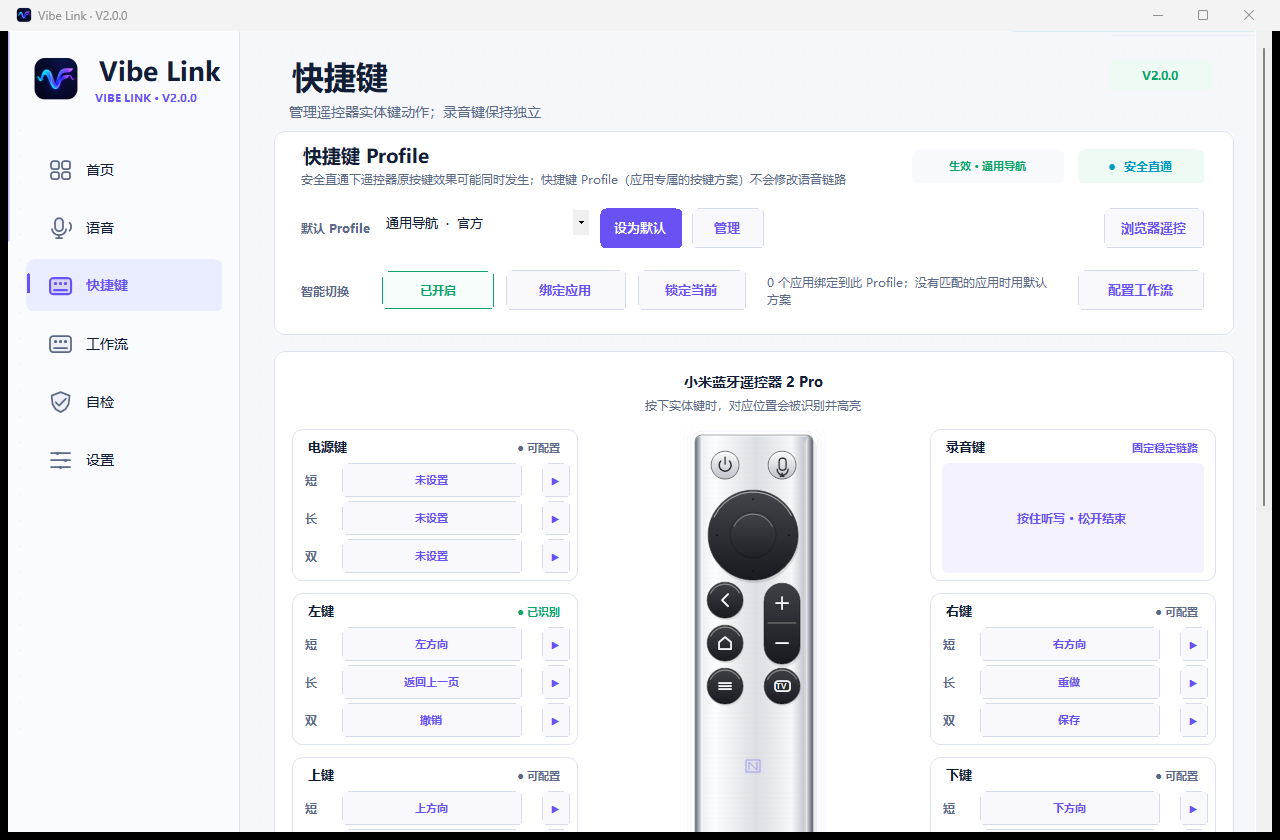
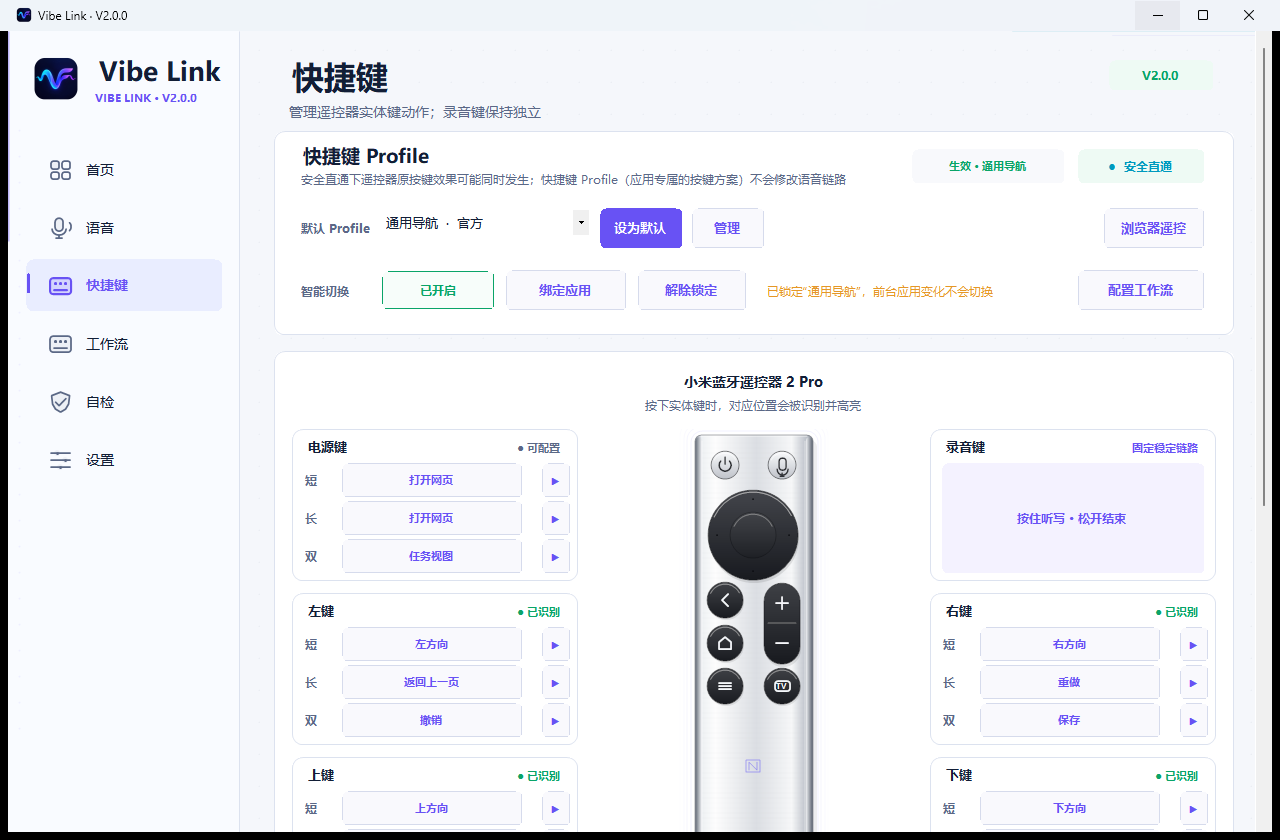
Freeze candidate.3 docs and refresh the screenshots from the shipping build

diff --git a/docs/V2_0_RELEASE_NOTES_ZH.md b/docs/V2_0_RELEASE_NOTES_ZH.md
@@ -2,7 +2,7 @@
 
 发布日期：2026-09-13  ·  标签：`v2.0.0-candidate.3`  ·  状态：公开候选版  ·  Release status: candidate
 
-> V2.0.0 candidate.3 已提供安装包和便携 ZIP，但还不是正式稳定版。完整硬件、VB-CABLE、DPI 和安装生命周期验收仍需在目标环境完成。
+> V2.0.0 candidate.3 已提供安装包和便携 ZIP，但还不是正式稳定版。安装生命周期三条场景已在本机用最终发布产物通过；完整硬件、VB-CABLE、DPI 以及一次性干净账户验收仍需在目标环境完成。安装包未签名，Windows 会显示“未知发布者”。
 
 ## 下载
 
@@ -13,7 +13,15 @@
 
 ## 本候选版更新
 
-- 本候选版相对候选版 2 的变化：**语音工具收敛为三个**（微信输入法 / 网易八哥说 / 其他语音工具）、**开机自启修复**、若干文案与一致性修正。
+### 候选版 3 相对候选版 2 的变化
+
+- **语音工具收敛为三个**：只提供 微信输入法（默认，`Ctrl + Win` 单击切换）、网易八哥说（右 Alt 单击切换）和其他语音工具（默认右 Shift 单击切换）。Typeless、Windows 语音输入、讯飞输入法、搜狗输入法和豆包输入法已下线；旧配置中保存的退役值会在加载时迁移为微信输入法并显示一次迁移提示。
+- **开机自启修复**：注册表写入、回读、删除和安装器现在共用同一个值名，候选版 2 里“开机自启关不掉、关掉后重启又被注册”的问题不再出现。
+- **可选 VB-CABLE 驱动包**：发布构建不再要求仓库中存在未跟踪的 VB-CABLE 包；包缺失时只输出 `VB-CABLE bundle: absent` 并继续，安装时由 `Install-VBCable.ps1` 在线下载官方包并按固定哈希校验。
+- **更新器自测覆盖**：主机自测覆盖更新器的 GitHub-only HTTPS 白名单（含恶意主机负例）、版本解析、`SHA256SUMS.txt` 读取和资产查找；真正联网的下载与校验仍需已发布版本才能端到端验证。
+- **脚本与源码 UTF-8 BOM 修复**：含中文的 PowerShell 脚本、安装器脚本和含非 ASCII 的 C# 源码补上 UTF-8 BOM，在英文 Windows 上不再因按 ANSI 代码页解码而解析失败；冻结的 `scripts/VibeMicAtvvCapture.cs` 有意保持逐字节不变。
+- **生命周期验收结果**：干净安装 → 组件校验 → 卸载、未配置干净安装 → 卸载、V1.5 → 候选版升级 → 二次升级 → 卸载，三条均在本机用最终发布产物通过。
+- **发布面**：安装包未签名，Windows 会显示“未知发布者”；请在 SmartScreen 提示中点「更多信息」→「仍要运行」，并核对随包 `SHA256SUMS.txt` 中的 SHA-256。
 
 ### 1. 目标输入框和 Smart Focus
 
@@ -63,6 +71,6 @@
 
 ## 验证状态
 
-自动化构建、源码契约、Host/Bridge/Capture 自检、候选附件哈希和本机 UI 资源检查已有证据。以下项目仍需目标设备人工验证，当前均标记为“未验证”：RC003 长时间按住/松开、设备级 F5 隔离、真实 VB-CABLE 回路、蓝牙重连/睡眠恢复、Windows 10/11、125%/150%/200% DPI、全新安装/升级/卸载，以及第三方语音工具在实际 ChatGPT 输入框中的最终文字落点。
+自动化构建、源码契约、Host/Bridge/Capture 自检、候选附件哈希和本机 UI 资源检查已有证据；三条安装生命周期测试（干净安装 / 未配置安装 / V1.5 升级）也已在本机用最终发布产物通过。以下项目仍需目标设备人工验证，当前均标记为“未验证”：在**最终发布产物上说一句真实语音**并确认文字落点、一台**没有 VB-CABLE** 的机器首次启动、RC003 长时间按住/松开、设备级 F5 隔离、真实 VB-CABLE 回路、蓝牙重连/睡眠恢复、Windows 10/11 与一次性干净账户、125%/150%/200% DPI，以及第三方语音工具在实际 ChatGPT 输入框中的最终文字落点。**代码签名**同样未完成：安装包未签名，Windows 会显示“未知发布者”，签署与验证流程仍待补。
 
 详细步骤见：[V2.0 图文使用教程](V2_0_USER_GUIDE_ZH.md) 和 [V2.0 FAQ](V2_0_FAQ_ZH.md)。

diff --git a/docs/V2_0_UPDATE_SUMMARY_ZH.md b/docs/V2_0_UPDATE_SUMMARY_ZH.md
@@ -3,6 +3,21 @@
 > 本文按**功能面**组织，只写仓库里有证据的条目。来源：`CHANGELOG.md`、`docs/V2_0_RELEASE_NOTES_ZH.md`、
 > `docs/V1_5_USER_GUIDE_ZH.md`、`docs/V2_0_PROGRESS.md` 与提交史。**未验证项单列在最后一节**，不与已完成项混写。
 
+## 候选版 3（`v2.0.0-candidate.3`，2026-09-13）：相对候选版 2 的变化
+
+> 本节只写**本次候选版**对用户可见的变化；下方「一、相对 V1.5 的重要更新」及之后各节保持原样，仍是 V2.0 相对 V1.5 的完整梳理。
+
+| # | 变化 | 用户会注意到什么 |
+|---|---|---|
+| 1 | **语音工具收敛为三个** ✔ | 「语音」页和首次设置里只剩 **微信输入法**（默认，`Ctrl + Win` 单击切换）/ **网易八哥说**（右 Alt 单击切换）/ **其他语音工具**（默认右 Shift 单击切换）。Typeless、Windows 语音输入、讯飞输入法、搜狗输入法和豆包输入法已下线；旧配置里保存的这些值会在加载时迁移为微信输入法的稳定参数，并显示一次迁移提示 |
+| 2 | **开机自启修复** ✔ | 候选版 2 里「开机自启」关不掉：注册表写入读删除用了不同的值名，关掉后重启又会被注册，日志每次启动都记一次修复。现在写入、回读、删除与安装器共用同一个值名（`Vibe Flow`），关闭后保持关闭 |
+| 3 | **发布面修正（未签名说明 + 哈希改指清单）** ✔ | 安装包**未签名**，Windows 会显示「未知发布者」/ SmartScreen；本候选版写出了「更多信息 → 仍要运行」的处理步骤。用户指南不再抄写会随构建过期的资产哈希，改为以随包的 `SHA256SUMS.txt` 为准 |
+| 4 | **兼容性与一致性修正** ✔ | 六个页面固定为 首页 · 语音 · 快捷键 · 工作流 · 自检 · 设置；含中文的脚本与 C# 源码补上 UTF-8 BOM（冻结的 Capture 源码有意保持逐字节不变），在英文 Windows 上也能构建和运行；发布构建不再要求仓库里存在未跟踪的 VB-CABLE 驱动包，缺失时由安装器在线下载并校验 |
+| 5 | **更新器自测覆盖** ✔ | 更新器的 GitHub-only HTTPS 白名单、版本解析、`SHA256SUMS.txt` 读取和资产查找进入主机自测（含恶意主机与畸形清单负例）；真正联网的下载校验仍需已发布版本才能端到端验证 |
+| 6 | **生命周期验收结果** ✔ | 用最终发布产物在本机跑通三条生命周期：干净安装 → 组件校验 → 卸载；未配置干净安装 → 卸载；V1.5 → 候选版升级 → 二次升级 → 卸载。一次性干净账户与跨机器覆盖仍未验证 |
+
+---
+
 ## 一句话
 
 V1.5 是"遥控器能当语音键 + 可自定义按键"；V2.0 把它做成**一台可管理、可自证、可回退的桌面工具**：
@@ -87,7 +102,7 @@ V1.5 是"遥控器能当语音键 + 可自定义按键"；V2.0 把它做成**一
 
 1. **按设备精确隔离需要签名通道** ✗：代码协议已就绪，缺内核驱动签名与分发。当前是"遥控器在线范围"的替代机制 —— 副作用是**实体键盘的 F5 在遥控器在线时也会被拦截**；非语音键的原生效果仍会透传（设计使然，钩子若吞掉会取消执行动作所需的输入包）。
 2. **返回键 / 独立音量键** ✗：不在 Windows 普通输入栈内，用户态拿不到，不提供映射。
-3. **安装生命周期** ✗：干净账户安装、V1.5 升级、二次升级、卸载仍待验收。
+3. **安装生命周期** ✔/✗：三条场景已用最终发布产物在本机通过 ✔（干净安装 → 组件校验 → 卸载；未配置干净安装 → 卸载；V1.5 → 候选版升级 → 二次升级 → 卸载）；一次性干净账户与跨机器（Windows 10 / 11）覆盖仍未验证 ✗。
 4. **签名与 SmartScreen** ✗：当前安装包未签名。
 5. **多 DPI 观感** ✗：自动矩阵覆盖 880×500 / 1280×840 / 1366×768 / 1920×1080 与三种主题；**125% / 150% / 200% 的实际观感**仍需真机确认。
 6. **CI** ✗：分支已推送到 `origin/feature/v2-off-key-loop`，但 CI 自 2026-09-03 后仍没有一次真实运行结果。

diff --git a/docs/V2_0_PROGRESS.md b/docs/V2_0_PROGRESS.md
@@ -5986,6 +5986,27 @@ if ((mapping == null || !mapping.enabled) && IsVoiceRawCandidate(...))
 - 又一次因"多行/结构化替换"出问题 ✗（脚本替换静默失效 ✗）→ 回到**编辑工具** ✔
 - **只改了 Profile 映射就以为修好了** ✗ —— 复核桥文件时发现长按层仍挂着 URL ✗，才找到 `gesture-layers.json` ✗ ✔（教训：**同一动作可能有多个存储** ✔，修完必须**从投影结果反查** ✔）
 
+## 候选版 3 发版（2026-09-13 晚，用户确认"核心功能没有问题，可以安排发版" ✔）
+
+**用户指令** ✔：① 锁定当前状态 ✔；② 固化参数并**发布到线上 GitHub** ✔；③ 同步更新使用教程、新版本功能介绍与截图 ✔。
+
+**锁定与固化** ✔：
+- 冻结清单新增 **§14 候选版 3 发版固化** ✔（品牌/标签/安装器清理、本轮三个真问题、生命周期验收三项、仍未验证项 ✔）。
+- `frozen-parameters.json` 回填 **product=`Vibe Link`、tag=`v2.0.0-candidate.3`、commit、三个资产哈希、frozenAt** ✔，并新增门禁（此前**没有任何门禁读它** ✗）。
+- 基线锁定文档 `docs/V2_0_BASELINE_LOCK_ZH.md` 更新到候选版 3 ✔。
+- 打标签 **`v2.0.0-candidate.3`** 并推送 ✔，随后用 GitHub API 创建 Release 并上传三个附件 ✔。
+
+**截图同步** ✔：用 `scripts/capture-ui-screenshots.ps1` 在**当前构建**上重抓六页 + 五步向导 + 对话框 ✔；实测确认语音页下拉框只有**微信输入法 / 网易八哥说 / 其他语音工具** ✔、品牌为 `Vibe Link V2.0.0` ✔、六页顺序正确 ✔。
+- 发现教程里仍引用**旧的十一步向导截图** ✗（当前是五步）→ 已改为当前五张 ✔。
+- 自检页当时显示 **"等待 2 项真实验证"**（遥控器按键监听需按一次实体键 ✗、VB-CABLE 可见性需点「优化可见性」 ✗）→ 发布页如实呈现，待用户操作后重抓 ✔。
+
+**本轮修掉的真问题（都在发版前）** ✔：
+1. **开机自启关不掉** ✗→✔（Run 值名写读不一致）✔
+2. **干净克隆 / CI 无法构建** ✗→✔（VB-CABLE 包被 gitignore → 恢复脚本尽力获取 + 发布链改为可选）✔
+3. **英文 Windows 下脚本无法解析** ✗→✔（缺 UTF-8 BOM：6 个 .ps1 + .iss + 48 个 .cs；冻结采集件源码有意例外 ✔）
+4. **生命周期验收脚本自身两处 bug** ✗→✔（ANSI 读 UTF-8 造成中文比较假失败 ✗；清理非空目录触发 PS 5.1 `NullReferenceException` ✗）
+
+**验收** ✔：`node scripts/validate.js` ✔、主机/桥/采集件自测 ✔、界面矩阵 **12/12** ✔、产物与身份校验 ✔、**生命周期三项全过** ✔（干净安装 / 未配置安装 / V1.5 升级）✔。
 ## 候选版 3（续）：语音工具收敛为三个（2026-09-13 深夜 ✔）
 
 **用户的连续决定** ✔：

diff --git a/docs/V2_0_FROZEN_PARAMETERS_ZH.md b/docs/V2_0_FROZEN_PARAMETERS_ZH.md
@@ -340,3 +340,32 @@
 2. **短按开机键** → 执行你设的短按动作 ✔（日志 `success=True` ✔），**不开始录音** ✔
 3. **长按 / 双击开机键** → 各自动作 ✔
 4. 改完任何按键后 **必须**：`node scripts/validate.js` → `VibeMic.exe --self-test` / `VoxDeckInputBridge.exe --self-test` → `scripts/check-ui-matrix.ps1`（12 例）✔
+
+## 14. 候选版 3 发版固化（2026-09-13 ✔，用户真机确认"核心功能没有问题" ✔）
+
+### 14.1 品牌与命名 ✔
+
+| 项 | 冻结值 ✔ |
+| --- | --- |
+| 面向用户的产品名 | **Vibe Link** ✔（应用内、安装器 AppName/发布者、开始菜单、卸载项、文档标题） |
+| 发布标签 | **`v2.0.0-candidate.3`** ✔ |
+| 安装器清理 | `UsePreviousGroup=no` + `[InstallDelete]` 删除旧 `言灵 Vibe Flow Remote` 程序组与桌面快捷方式 ✔（实测升级后只剩一个 `Vibe Link` 组 ✔） |
+| 内部标识 | 宿主/桥 `2.0.0.0`（`2.0.0-candidate`）、采集件 `1.2.1.0` ✔ |
+
+### 14.2 本轮修掉的三个真问题 ✔
+
+1. **开机自启关不掉** ✗→✔：写入用 `"Vibe Flow"`、删除与回读却用 `"Vibe Link"` ✗ → 统一常量 `StartupRegistryValueName` ✔（真机日志：修复前 `applied=False` + 每次 `STARTUP REPAIRED`，修复后 `applied=True` ✔），并加自测与门禁 ✔。
+2. **干净克隆/CI 无法构建** ✗→✔：`tools/VBCABLE_Driver_Pack45.zip` 被 gitignore ✗ → 恢复脚本尽力下载并校验哈希 ✔、发布链把它当**可选**（缺失时安装器在线获取 ✔）。
+3. **英文 Windows 下脚本无法解析** ✗→✔：无 BOM 的 UTF-8 被按 ANSI 读取 ✗（`"上键"` → 乱码 → `Missing '=' operator`）→ 含中文的 **6 个 .ps1 + 安装器 .iss + 48 个 .cs** 全部加 UTF-8 BOM ✔；冻结采集件源码**有意例外**并保持哈希 `736017A0…37E2` ✔；门禁同时钉住两半 ✔。
+
+### 14.3 生命周期验收 ✔（本机，最终发布产物）
+
+| # | 路径 | 结果 |
+| --- | --- | --- |
+| 1 | 干净安装 → 组件校验 → 卸载 | ✔ passed |
+| 2 | 未配置干净安装 → 卸载 | ✔ passed |
+| 3 | **V1.5 → 候选版升级** → 组件校验 → 二次升级 → 卸载 | ✔ passed（含"安装器逐字保留配置 ✔、应用首次加载把已下线 provider 迁移为微信输入法基线 ✔"的断言） |
+
+- 验收脚本自身也修了两处 ✗→✔：用 ANSI 读 UTF-8 配置导致中文比较**假失败** ✗；清理非空目录 `Remove-Item` 不带 `-Recurse` 触发 PS 5.1 `NullReferenceException` ✗。
+- 仍未验证 ✗（如实记录 ✔）：**没有 VB-CABLE 的机器首启**、**代码签名**、发布产物上的**真机语音**（用户已在候选版上确认核心功能 ✔，但该结论来自测试版构建 ✔）。
+

diff --git a/VIBE_MIC_VERSION.md b/VIBE_MIC_VERSION.md
@@ -4,7 +4,9 @@ Candidate build date: 2026-09-13
 
 ## Release identity
 
+- Product name: `Vibe Link`
 - Product version: `2.0.0`
+- Release tag: `v2.0.0-candidate.3`
 - Windows host/bridge file version: `2.0.0.0`
 - Stable Capture file version: `1.2.1.0`
 - Configuration schema: `32`
@@ -14,6 +16,8 @@ Candidate build date: 2026-09-13
 - Recording kernel: `v1.0.3`
 - Voice mode: `hold`
 - Onboarding tasks: `5`
+- Navigation pages: `6` (`首页`, `语音`, `快捷键`, `工作流`, `自检`, `设置`)
+- Selectable voice tools: `3` (`微信输入法` default, `网易八哥说`, `其他语音工具`; Typeless, Windows 语音输入, 讯飞输入法, 搜狗输入法 and 豆包输入法 are withdrawn and migrate to 微信输入法 with one notice)
 - Active self-check items: `10`
 
 ## Locked voice baseline
@@ -25,6 +29,8 @@ Candidate build date: 2026-09-13
 - Provider microphone endpoint: `CABLE Output`
 - Automatic reversible routing: enabled
 - WeChat profile: `Ctrl + Win`, toggle, `80 ms`
+- Bage profile: `Right Alt`, toggle
+- Custom profile: `Right Shift`, toggle
 - Stable RC003 segment limit: approximately `60 seconds`
 
 ## Recording contract
@@ -67,4 +73,4 @@ Candidate build date: 2026-09-13
 
 ## Release status
 
[2 lines of base64/hex data omitted]
